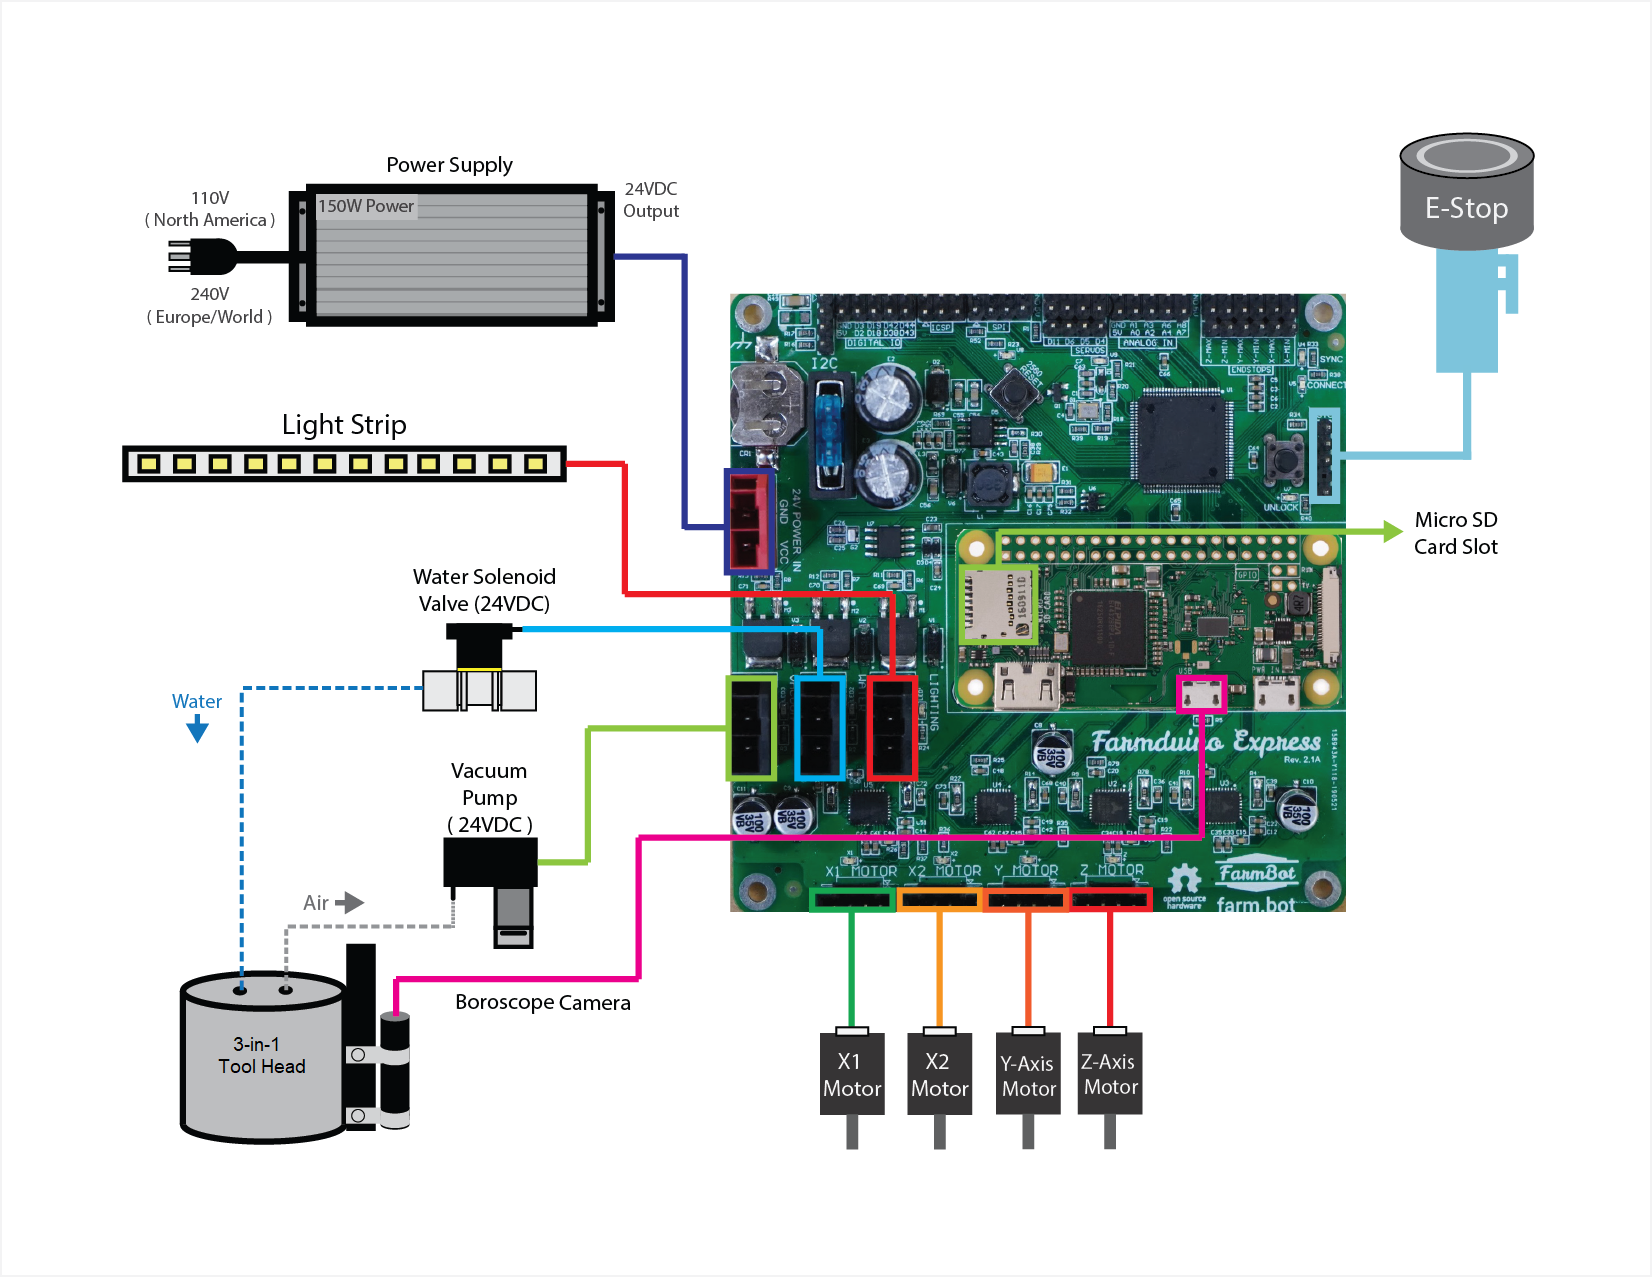
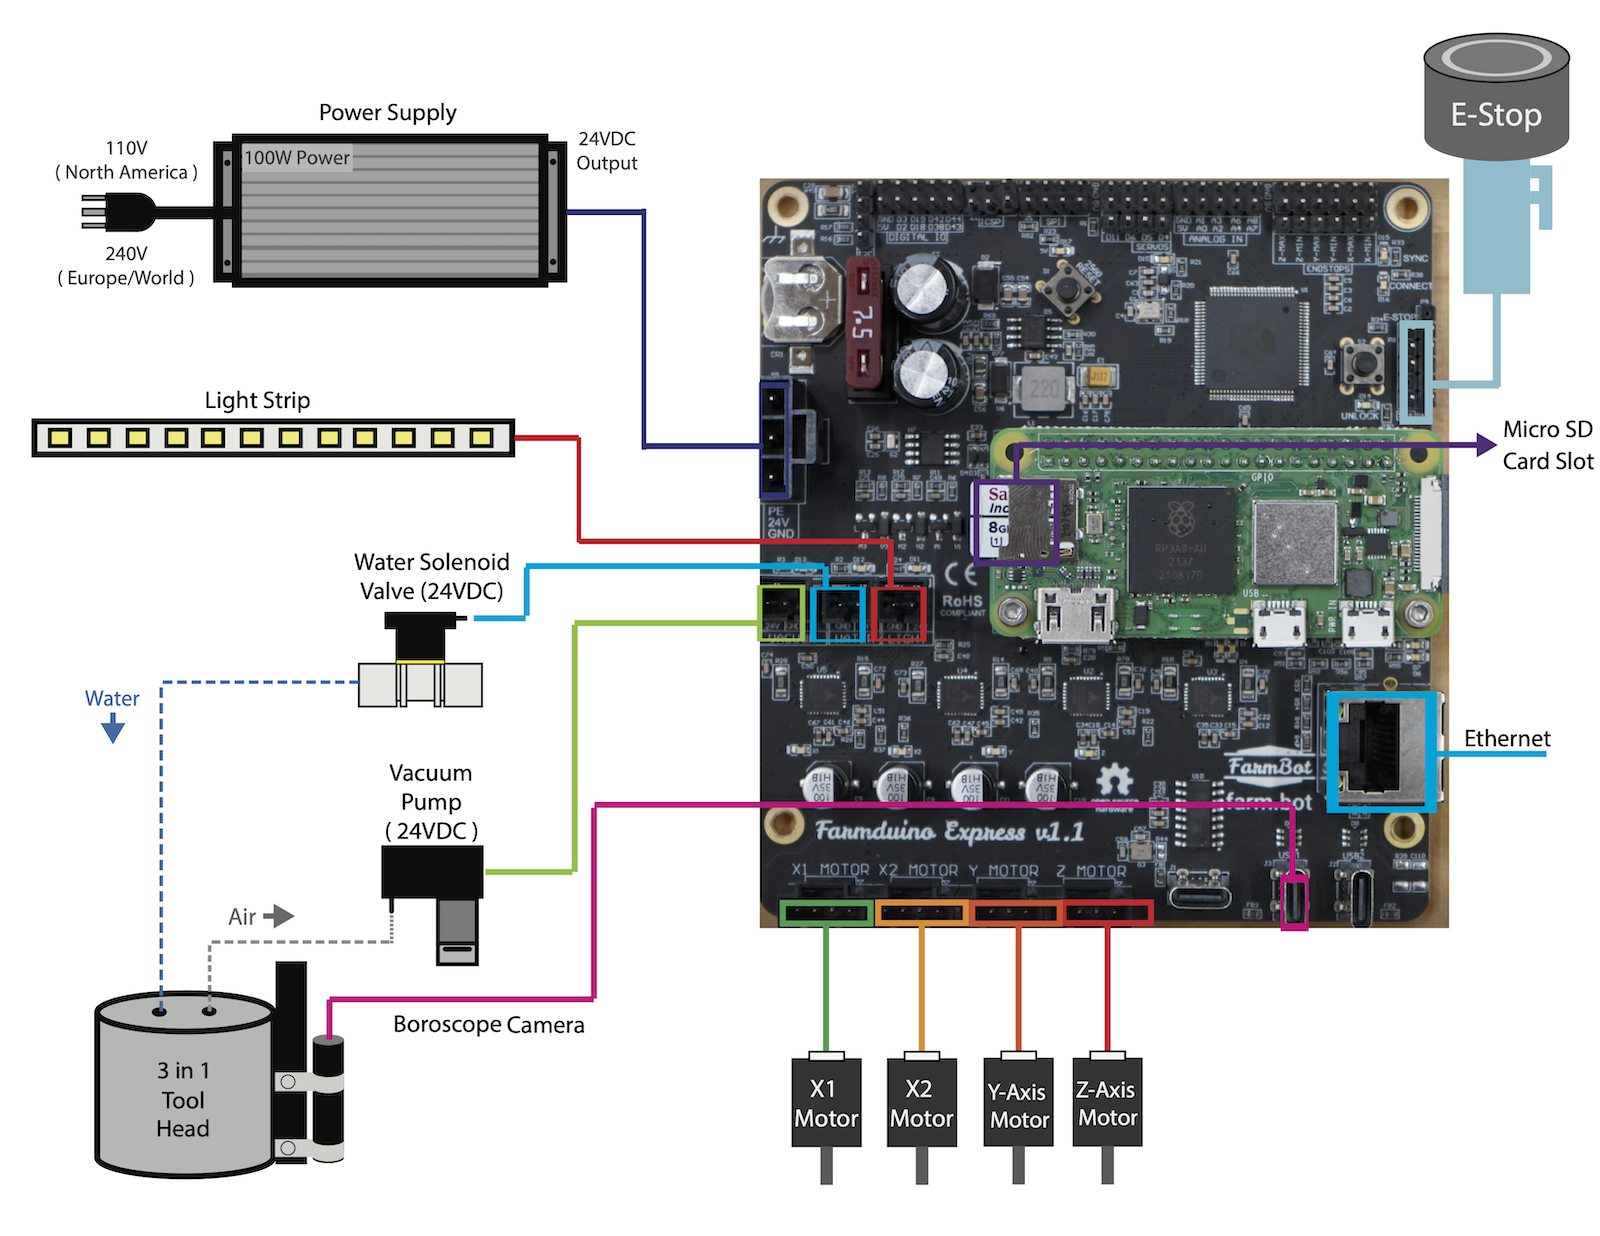
Add final remaining BOM images (#20)

diff --git a/v1.1/assembly/intro/change-log.md b/v1.1/assembly/intro/change-log.md
@@ -18,6 +18,8 @@ Last, the new board includes a pulldown resistor to fix an issue that affected E
 
 Express v1.1 includes an upgraded [[Raspberry Pi Zero 2 W]] computer to provide faster booting and greater overall performance when compared to the Zero W included in Express v1.0 kits.
 
+![raspberry pi zero 2 w](_images/raspberry_pi_zero_2_w.jpeg)
+
 # Vacuum pump with EMI filter
 
 The [[vacuum pump]] now features a circuit board directly soldered onto the back of the motor which performs EMI filtering and reduces the startup current draw of the motor. This circuitry will help reduce WiFi interference caused by the vacuum pump, as well as the potential for the pump to drop the system voltage below acceptable levels when starting up.

diff --git a/v1.1/assembly/plug-everything-in.md b/v1.1/assembly/plug-everything-in.md
@@ -86,7 +86,7 @@ content="At this time, the FarmBot should not be plugged into any power source."
 
 The diagram below illustrates the FarmBot Express electronics schematic. In the following steps you'll connect each motor and peripheral one at a time, and finally the power supply.
 
-![express electronics schematic](_images/express_electronics_schematic.png)
+![express v1.1 electronics schematic](_images/express_electronics_schematic.png)
 
 Connect the peripheral cables to the [[Farmduino Express]] board. From left to right:
 
